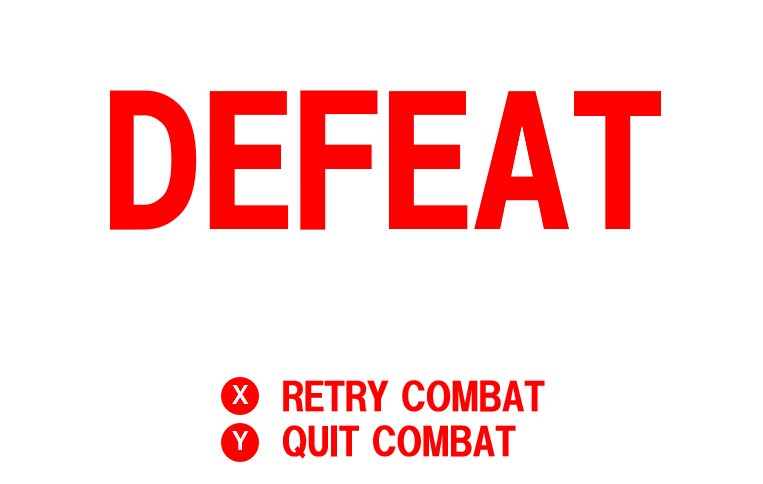
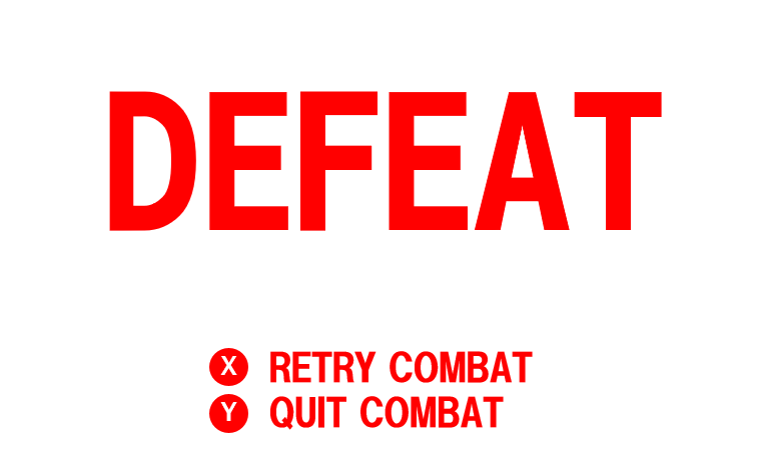
add 3d sprite shaders

diff --git a/DirectX11/ResultScene.cpp b/DirectX11/ResultScene.cpp
@@ -12,7 +12,6 @@
 #include "Mesh.h"
 #include "TranslucenceComponent.h"
 #include "CameraComponent.h"
-#include "Light.h"
 #include "DefineConstant.h"
 #include "PlaneActor.h"
 
@@ -25,15 +24,8 @@ ResultScene::ResultScene(SceneManager* sm, const Parameter& parameter)
 {
 	PlaneActor* plane = new PlaneActor(this);
 
-	DirectionalLight light = {
-		{0.0f,-1.0f,0.0f},
-		{0.05f,0.05f,0.05f},
-		{1.0f,1.0f,1.0f},
-		{0.9f,0.9f,0.9f}
-	};
-
 	Renderer* renderer = GetRenderer();
-	renderer->SetDirectionalLight(light);
+	renderer->ResetLight();
 
 	Actor* actor = new Actor(this);
 	actor->SetPosition(dx::XMFLOAT3{ 0.0f,Constant::height,0.0f });
@@ -42,7 +34,7 @@ ResultScene::ResultScene(SceneManager* sm, const Parameter& parameter)
 
 	actor = new Actor(this);
 	Mesh* mesh = renderer->GetMesh("planeScreenshot");
-	mesh->ParsePlaneMesh(renderer, "screenshot", L"3DSprite", 2, 12.0f, 8.0f, true);
+	mesh->ParsePlaneMesh(renderer, "screenshot", L"Screenshot", 2, 12.0f, 6.75f, true);
 	TranslucenceComponent* tc = new TranslucenceComponent(actor, mesh);
 	actor->SetRotation(dx::XMFLOAT3{ 0.0f,0.0f,0.5f });
 	actor->SetPosition(dx::XMFLOAT3{ 1.5f,Constant::height + 12.0f,0.0f });
@@ -51,18 +43,18 @@ ResultScene::ResultScene(SceneManager* sm, const Parameter& parameter)
 	{
 		actor = new Actor(this);
 		mesh = renderer->GetMesh("planeResult");
-		mesh->ParsePlaneMesh(renderer, "victory", L"Phong", 2, 5.0f, 4.0f, true);
+		mesh->ParsePlaneMesh(renderer, "victory", L"3DSprite", 2, 5.0f, 4.0f, true);
 		tc = new TranslucenceComponent(actor, mesh);
 	}
 	else
 	{
 		actor = new Actor(this);
 		mesh = renderer->GetMesh("planeResult");
-		mesh->ParsePlaneMesh(renderer, "defeat", L"Phong", 2, 5.0f, 4.0f, true);
+		mesh->ParsePlaneMesh(renderer, "defeat", L"3DSprite", 2, 5.0f, 4.0f, true);
 		tc = new TranslucenceComponent(actor, mesh);
 	}
 	actor->SetRotation(dx::XMFLOAT3{ 0.0f,0.0f,-0.5f });
-	actor->SetPosition(dx::XMFLOAT3{ -3.5f,Constant::height + 12.0f,0.0f });
+	actor->SetPosition(dx::XMFLOAT3{ -4.0f,Constant::height + 12.0f,0.0f });
 }
 
 ResultScene::~ResultScene()

diff --git a/DirectX11/GameScene.cpp b/DirectX11/GameScene.cpp
@@ -64,7 +64,9 @@ void GameScene::ProcessInput()
 	switch (GetSceneState())
 	{
 	case SceneState::EPlay:
-		if (GetInputSystem()->GetScenePause() && GetFade()->GetFadeState() == Fade::FadeState::EFadeNone)
+		if (GetInputSystem()->GetScenePause() &&
+			GetFade()->GetFadeState() == Fade::FadeState::EFadeNone &&
+			!mPlayer->GetIsLockedOn())
 		{
 			GetInputSystem()->GetPad()->StopVibration();
 			SetSceneState(SceneState::EPaused);
@@ -346,7 +348,7 @@ void GameScene::CreateGameActor()
 	for (int i = 0; i < mEnemies.size(); i++)
 	{
 		Actor* actor = new Actor(this);
-		mesh->ParsePlaneMesh(GetRenderer(), "enemy_guide", L"Phong", 2, 0.5f, 0.5f, true);
+		mesh->ParsePlaneMesh(GetRenderer(), "enemy_guide", L"3DSprite", 2, 0.5f, 0.5f, true);
 		mEnemyGuideTranslucenceComps.emplace_back(new TranslucenceComponent(actor, mesh, 400));
 	}
 }

diff --git a/DirectX11/PlayerActor.cpp b/DirectX11/PlayerActor.cpp
@@ -78,7 +78,7 @@ PlayerActor::PlayerActor(BaseScene* scene)
 
 		Actor* actor = new Actor(GetScene());
 		Mesh* mesh = renderer->GetMesh("planePlayer");
-		mesh->ParsePlaneMesh(renderer, "player_guide", L"Phong", 2, 1.4f, 1.4f, true);
+		mesh->ParsePlaneMesh(renderer, "player_guide", L"3DSprite", 2, 1.4f, 1.4f, true);
 		mPlayerTranslucenceComp = new TranslucenceComponent(actor, mesh, 300);
 
 		mCameraComponent = new CameraComponent(this, CameraComponent::CameraType::ESpring);
